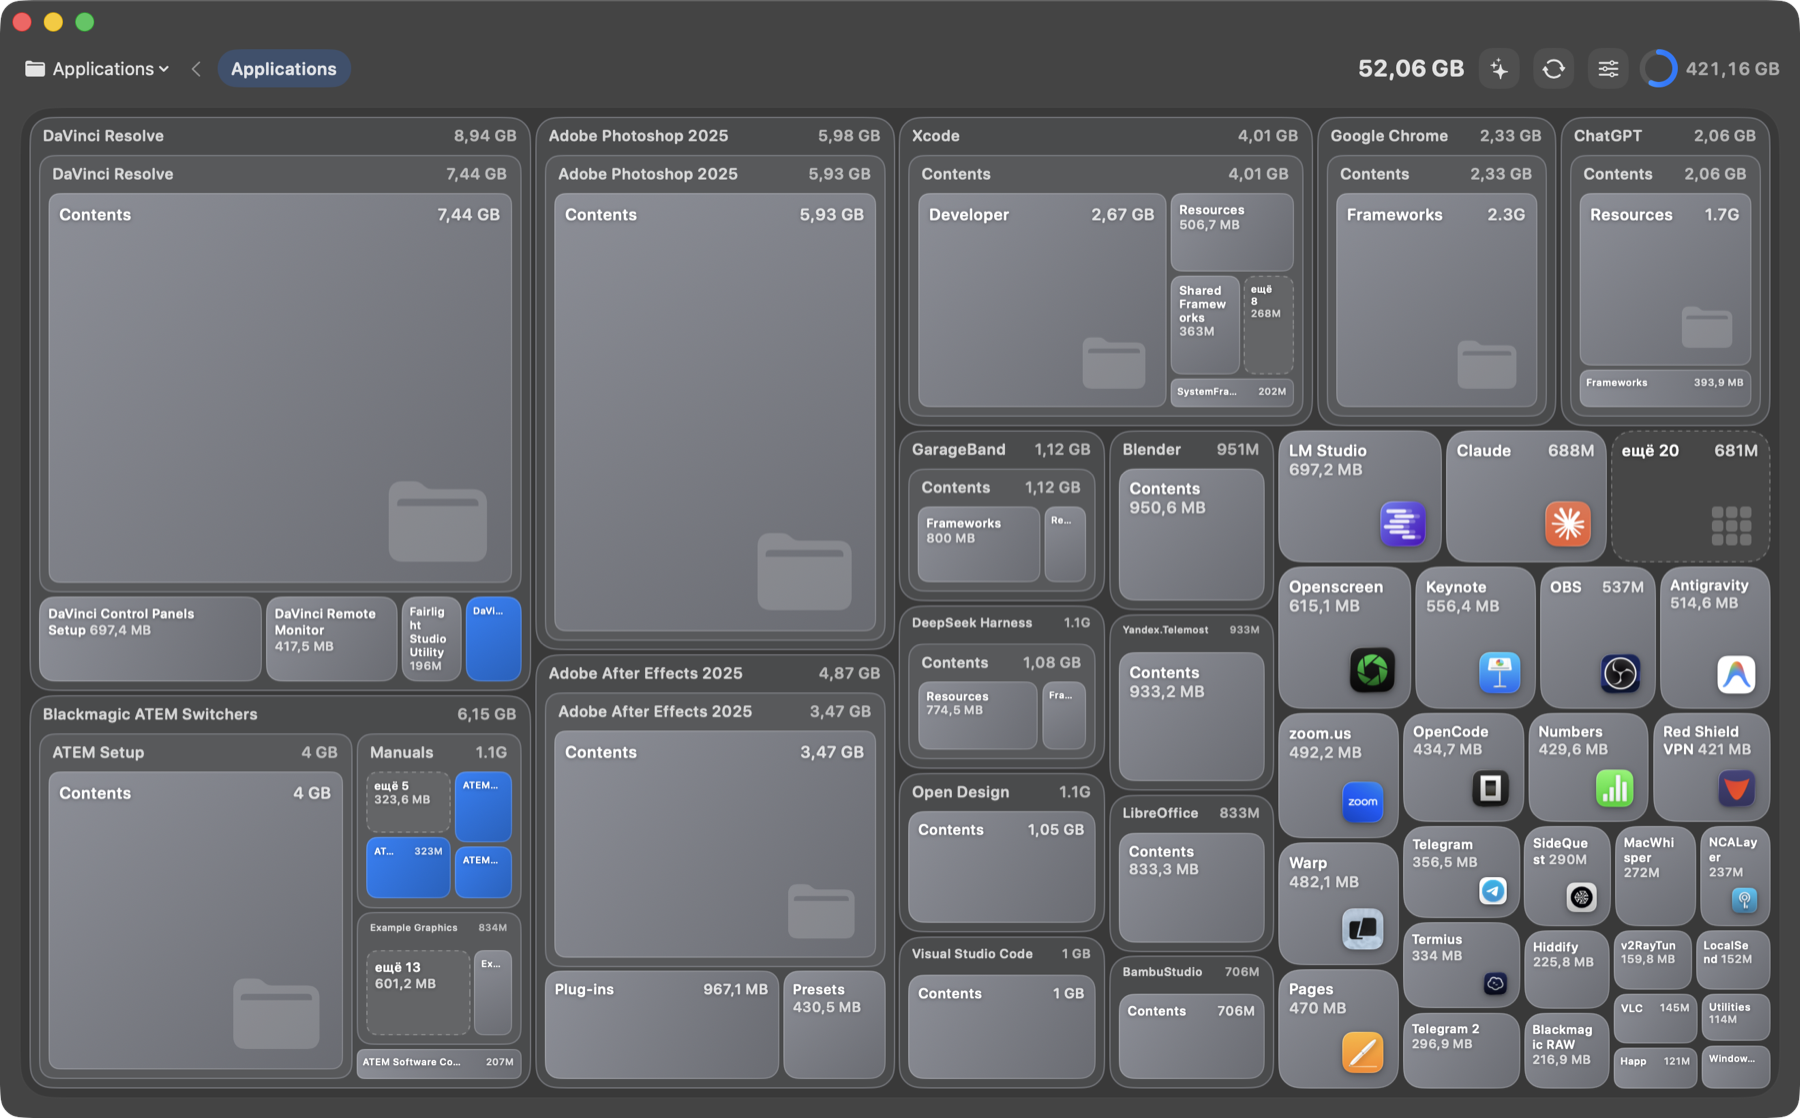
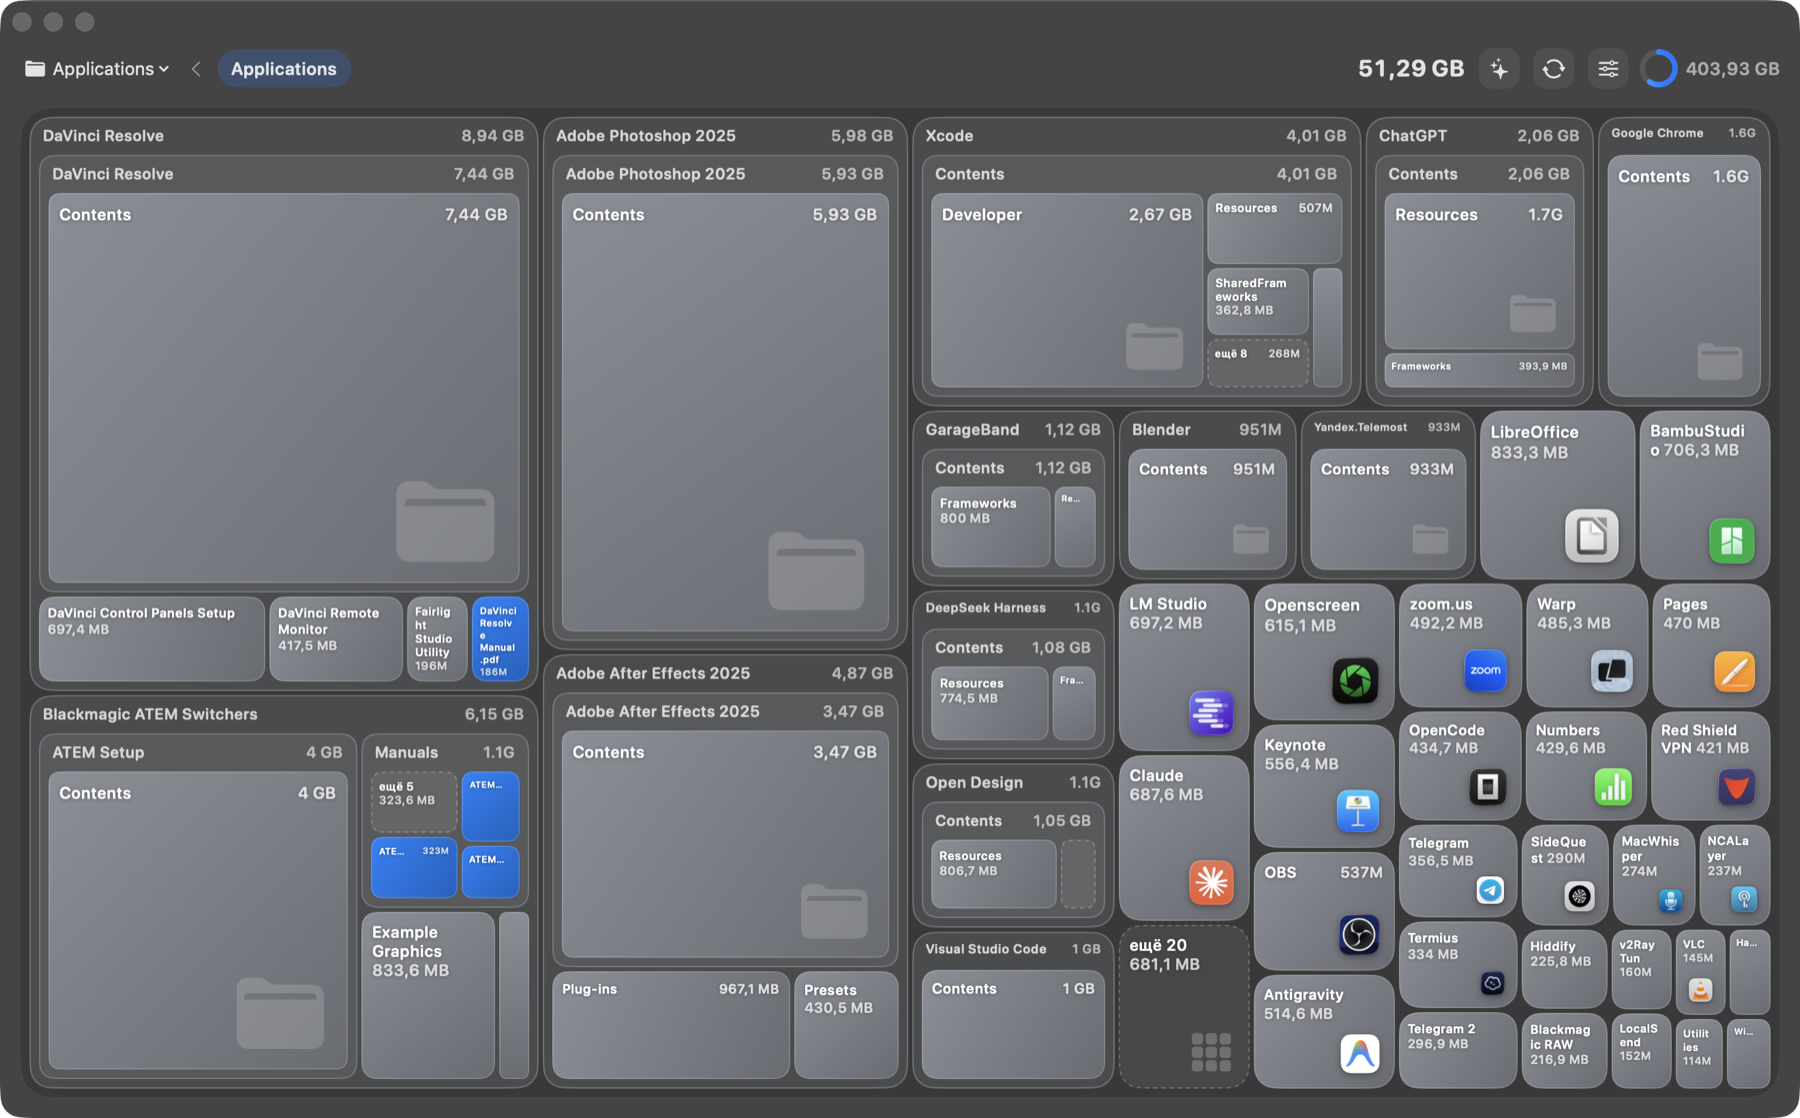
Анимация синхронизации: сначала пустая сетка без перемещений, затем подписи и иконки проявляются в случайном порядке
Откат к прежней анимации «пазл»: git checkout anim-puzzle-v1 (тег) или git revert этого коммита.

Changed region(s): [[0.4044, 0.0912, 0.9956, 0.9732], [0.0311, 0.0912, 0.4356, 0.9732], [0.0, 0.0, 0.0622, 0.0304]]

diff --git a/Sources/SpaceLens/Treemap.swift b/Sources/SpaceLens/Treemap.swift
@@ -248,14 +248,31 @@ enum TileLabel {
     }
 }
 
+/// Появление подписи/иконки: мягкий «выскок» с задержкой. Скрывается мгновенно.
+struct Reveal: ViewModifier {
+    let on: Bool
+    let delay: Double
+    func body(content: Content) -> some View {
+        content
+            .opacity(on ? 1 : 0)
+            .scaleEffect(on ? 1 : 0.82, anchor: .topLeading)
+            .blur(radius: on ? 0 : 3)
+            .animation(on ? .spring(response: 0.34, dampingFraction: 0.78).delay(delay) : nil, value: on)
+    }
+}
+
 struct TileView: View {
     @EnvironmentObject var app: AppState
     @EnvironmentObject var ai: AIState
     let tile: Tile
     let baseFill: Color
     let selected: Bool
+    var reveal: Bool = true      // подписи и иконки проявляются, когда сетка достроена
     @State private var hover = false
     @State private var showGroup = false
+
+    /// Случайная (но стабильная для плитки) задержка появления подписи, 0…0.55 с.
+    private var delay: Double { Double(abs(tile.node.id.hashValue % 1000)) / 1000 * 0.55 }
 
     private var isGroup: Bool { tile.node.isAggregate && !tile.node.children.isEmpty }
 
@@ -274,6 +291,7 @@ struct TileView: View {
                 shape.fill(fill.opacity(0.20))
                 shape.strokeBorder(fill.opacity(0.55), lineWidth: 1)
                 let hp: CGFloat = 10
+                ZStack(alignment: .topLeading) {
                 if let L = TileLabel.fit(name: tile.node.name, bytes: tile.node.size,
                                          avail: r.width - 2 * hp - (badge ? 28 : 0), height: 28, pad: 7,
                                          base: min(11.5, base)) {
@@ -281,6 +299,7 @@ struct TileView: View {
                         .foregroundStyle(.primary.opacity(0.9))
                         .padding(.leading, hp).padding(.top, 7)
                 }
+                }.modifier(Reveal(on: reveal, delay: delay))
             } else {
                 if isGroup {
                     shape.fill(Color.white.opacity(hover ? 0.12 : 0.07))
@@ -290,6 +309,7 @@ struct TileView: View {
                                               startPoint: .topLeading, endPoint: .bottomTrailing))
                     shape.strokeBorder(.white.opacity(0.18), lineWidth: 0.8)
                 }
+                ZStack(alignment: .topLeading) {
                 let avail = r.width - 2 * pad - (badge ? 28 : 0)
                 let L = TileLabel.fit(name: tile.node.name, bytes: tile.node.size, avail: avail,
                                       height: r.height, pad: pad, base: base, flow: true)
@@ -324,6 +344,7 @@ struct TileView: View {
                         .frame(maxWidth: .infinity, maxHeight: .infinity, alignment: .bottomTrailing)
                         .padding(10)
                 }
+                }.modifier(Reveal(on: reveal, delay: delay))
             }
             if selected {
                 shape.strokeBorder(.white, lineWidth: 2.5).shadow(color: fill.opacity(0.9), radius: 8)
@@ -332,6 +353,7 @@ struct TileView: View {
                 AIBadge(s: m)
                     .frame(maxWidth: .infinity, maxHeight: .infinity, alignment: .topTrailing)
                     .padding(6)
+                    .modifier(Reveal(on: reveal, delay: delay))
             }
         }
         .frame(width: max(r.width, 1), height: max(r.height, 1))
@@ -345,7 +367,7 @@ struct TileView: View {
         .popover(isPresented: $showGroup, attachmentAnchor: .point(.center), arrowEdge: .bottom) { GroupList(group: tile.node, close: { showGroup = false }) }
         .popover(isPresented: detailBinding, attachmentAnchor: .point(.center), arrowEdge: .bottom) { DetailCard(node: tile.node, onClose: { app.selected = nil }) }
         .offset(x: r.minX, y: r.minY)
-        .transition(.scale(scale: 0.9).combined(with: .opacity))
+        .transition(.opacity)
     }
 
     private var detailBinding: Binding<Bool> {
@@ -465,11 +487,12 @@ struct TreemapView: View {
         GeometryReader { geo in
             if let cur = app.current {
                 let tiles = Treemap.layout(cur, in: CGRect(origin: .zero, size: geo.size).insetBy(dx: 6, dy: 6), nested: app.nested,
-                                           order: app.order, settled: !(app.scanning || app.refreshing))
+                                           order: app.order, settled: true)
                 ZStack(alignment: .topLeading) {
                     ForEach(tiles) { t in
                         TileView(tile: t, baseFill: app.fill(for: t.node),
-                                 selected: app.selected?.id == t.node.id)
+                                 selected: app.selected?.id == t.node.id,
+                                 reveal: !(app.scanning || app.refreshing))
                     }
                     if tiles.isEmpty {
                         VStack(spacing: 8) {

diff --git a/Sources/SpaceLens/AppState.swift b/Sources/SpaceLens/AppState.swift
@@ -153,7 +153,7 @@ final class AppState: ObservableObject {
                 if let snap = prog.liveSnapshot() {
                     snap.parent = parent
                     self.order.stamp += 1
-                    withAnimation(.spring(response: 0.6, dampingFraction: 0.84)) { self.current = snap }
+                    withAnimation(.easeOut(duration: 0.22)) { self.current = snap }
                 }
                 try? await Task.sleep(nanoseconds: 250_000_000)
             }
@@ -170,7 +170,7 @@ final class AppState: ObservableObject {
                 if let i = parent.children.firstIndex(where: { $0 === node }) { parent.children[i] = tree }
                 else { parent.children.append(tree) }
                 self.adjust(parent, size: tree.size - oldSize, files: tree.fileCount - oldFiles)
-                withAnimation(.spring(response: 0.5, dampingFraction: 0.88)) { self.current = tree }
+                withAnimation(.easeOut(duration: 0.25)) { self.current = tree }
                 self.syncNote = "Папка «\(tree.name)» пересканирована заново"
                 self.refreshDisk(rootURL)
                 // индекс сохраняем с прежней датой: остальное дерево не обновлялось, свежим его считать нельзя
@@ -207,7 +207,7 @@ final class AppState: ObservableObject {
                 self.scanPath = s.path; self.scanDenied = s.denied
                 if live, let snap = prog.liveSnapshot() {
                     self.order.stamp += 1
-                    withAnimation(.spring(response: 0.6, dampingFraction: 0.84)) { self.current = snap }
+                    withAnimation(.easeOut(duration: 0.22)) { self.current = snap }
                 }
                 try? await Task.sleep(nanoseconds: 250_000_000)
             }
